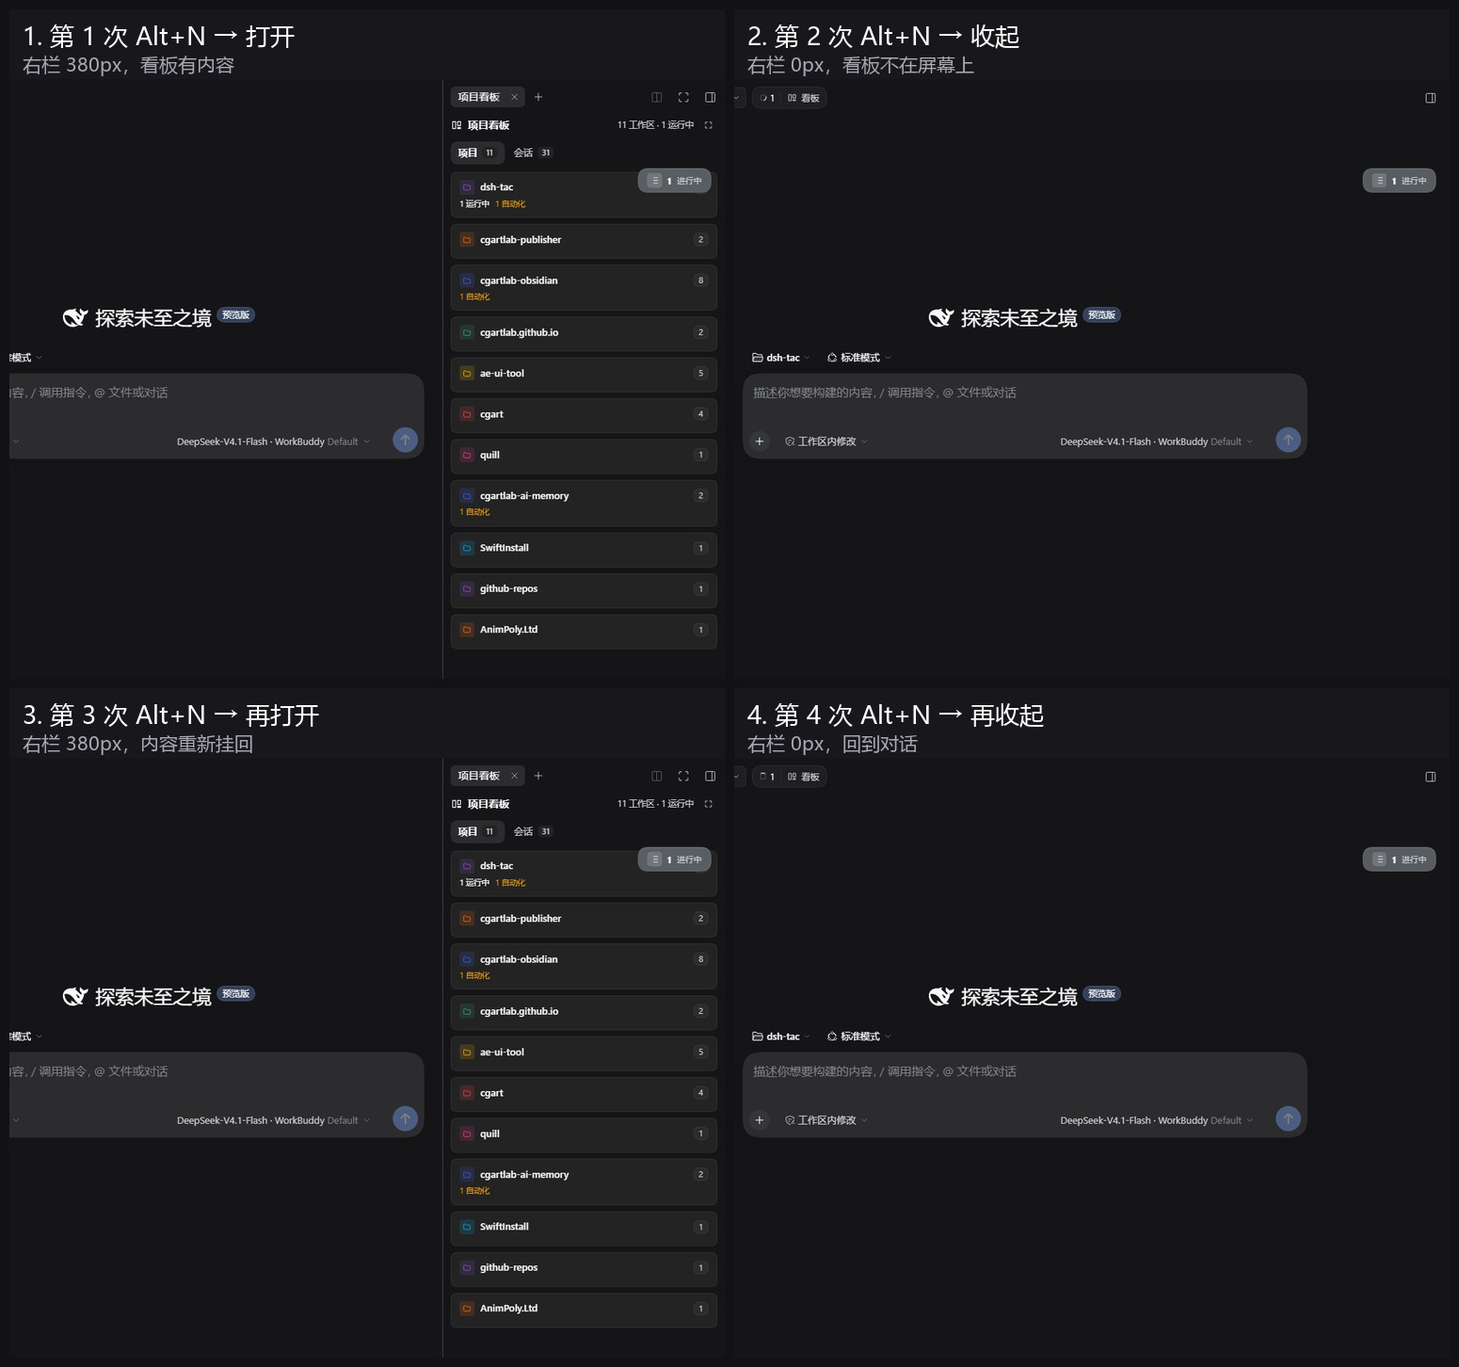
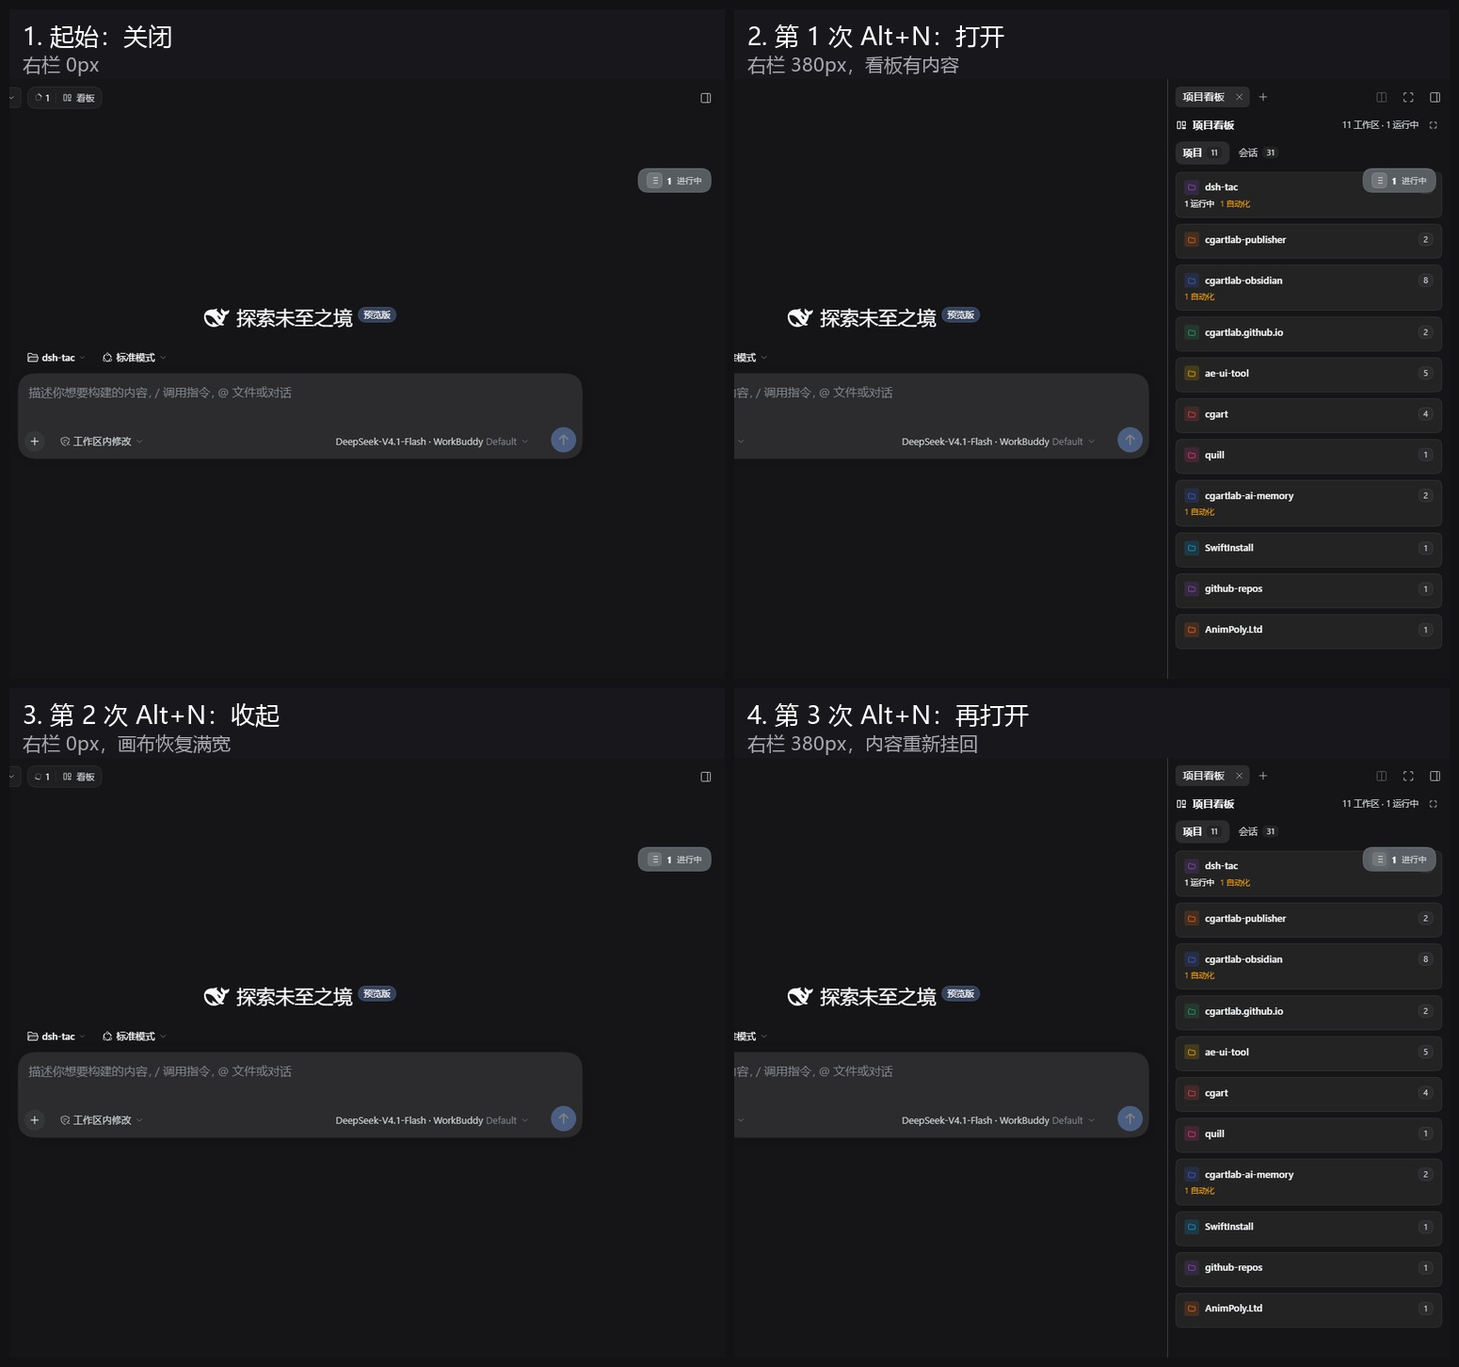
fix(board): treat a clamped column as closed by looking at the painted body
The window that stayed open was the host clamping the right column to width 0 while the tab
body stayed mounted, absolutely positioned at full width. Measuring the column said "closed"
and the close was skipped, so the canvas widened and the board stayed — reproduced in a
1256px window where after the second press the body still measured 379px at x=877.

Visibility now asks whether the board is actually painted inside the column
(`boardPanePainted`) and, when closing, also whether a copy is painted outside it
(`strayBoardBody`). A close runs whenever either is true, no matter what the column measures;
it uses `closeRightbar`, then the dock toggle, and finally hides a truly undeletable layer with
`visibility:hidden` (keeping its layout measurable so the next open can restore it and the
column geometry stays intact — `display:none` collapsed the column and broke the reopen).

Opening replaces a stray layer first (`closeTab` when available) so two boards can never stack.
`board:close-attempt` and `board:close-concealed` record the state on every close, and a
regression test reproduces the clamped-column-with-stray-body case.

Verified on the running app: four presses give 380px/222 chars → 0 → 380 → 0, and the recorded
frames show the pane gone and the canvas full width on every close.

diff --git a/src/apply.ts b/src/apply.ts
@@ -14,7 +14,7 @@ import type { UiStore } from './types';
 import { PLUGIN_SECTION_ID, openSettingsTarget, pluginSettingEntries, readHostSections } from './core/settings-catalog';
 import type { SettingEntry, SettingsCatalogSnapshot } from './core/settings-catalog';
 import { bindingsOverlap, comboBindingOf, comboDisplay, IS_MAC } from './core/combos';
-import { hostCentreColumnWidth, hostRightbarWidth, isRightPanelExpanded, isRightbarFullscreen, rightbarColumnElement, sidebarSignature } from './core/dom';
+import { boardPanePainted, hostCentreColumnWidth, hostRightbarWidth, isRightPanelExpanded, isRightbarFullscreen, rightbarColumnElement, sidebarSignature, strayBoardBody } from './core/dom';
 import { moveCaretToEnd } from './features/interject';
 import { installChatScrollListeners } from './features/chat-scroll';
 import { installChatHistoryAutoLoad } from './features/chat-history';
@@ -344,15 +344,28 @@ export function apply(ctx: HostContext): void {
      in one place; these aliases keep the call sites reading naturally. */
   const rightbarWidthNow = (): number => hostRightbarWidth();
   /**
-   * Whether the right pane is actually rendered — the only signal that matches what the user sees.
+   * Whether the board is on screen — the only signal that matches what the user sees.
    *
-   * The dock's own `data-sidebar-right-open` flag never comes back down when the frame hides the
-   * column: the panel stays mounted with the attribute still "true". Reading that flag therefore
-   * called a closed board "open", and the next Alt+N took the close branch again instead of
-   * reopening. Width is what the layout really renders, so measure the column instead.
+   * Two host facts fooled earlier versions: the dock keeps `data-sidebar-right-open="true"` on a
+   * hidden pane, and the tab body is absolutely positioned, so clamping the column to width 0
+   * leaves the body measured at full width and painted outside the (overflow-hidden) column.
+   * Measuring the column said "closed" while the board was still visible. Only a board painted
+   * *inside* a non-zero column counts as open.
    */
-  const BOARD_VISIBLE_MIN_WIDTH = 40;
-  const boardPaneShown = (): boolean => rightbarWidthNow() >= BOARD_VISIBLE_MIN_WIDTH;
+  const boardPaneShown = (): boolean => boardPanePainted();
+  /** Restore anything a fallback hid, so a later open is not fighting our own style. */
+  const clearConcealed = (): void => {
+    try {
+      document.querySelectorAll('[data-pbx-concealed="1"]').forEach((node) => {
+        const element = node as HTMLElement;
+        element.style.visibility = '';
+        element.style.pointerEvents = '';
+        delete element.dataset.pbxConcealed;
+      });
+    } catch (error) {
+      /* ignore */
+    }
+  };
   /** A close the host ignores would look like a dead key; leave a breadcrumb with the state. */
   const verifyBoardClosed = (): void => {
     later(() => {
@@ -408,6 +421,16 @@ export function apply(ctx: HostContext): void {
   const openDockBoard = (): void => {
     const sidebarRight = ctx.sidebarRight;
     if (!sidebarRight) return;
+    clearConcealed();
+    /* A clamped body stays painted where the host left it and cannot be reused, so replace it by
+       re-placing the tab; that is also what mounts the body after the host unmounted it. */
+    if (strayBoardBody()) {
+      try {
+        if (typeof sidebarRight.closeTab === 'function') sidebarRight.closeTab();
+      } catch (error) {
+        /* ignore */
+      }
+    }
     try {
       sidebarRight.openTab(BOARD_KIND);
     } catch (error) {
@@ -428,7 +451,7 @@ export function apply(ctx: HostContext): void {
   const verifyBoardOpened = (): void => {
     later(() => {
       try {
-        if (!boardPaneShown()) return;
+        if (!boardPaneShown() && !strayBoardBody()) return;
         const column = rightbarColumnElement();
         const body = column ? column.querySelector('.pbx-responsive, .pbx-root') : null;
         const text = body ? (body.textContent || '').trim() : '';
@@ -453,7 +476,11 @@ export function apply(ctx: HostContext): void {
    * attribute probe reads it as open. Collapse whichever is still set, then verify.
    */
   const closeDockBoard = (): void => {
-    if (!boardPaneShown()) return;
+    const strayAtEntry = Boolean(strayBoardBody());
+    logEvent('info', 'board', 'close-attempt', { shown: boardPaneShown(), stray: strayAtEntry, width: Math.round(rightbarWidthNow()) });
+    /* Close whenever anything is painted: a clamped column leaves a stray body on screen, and
+       checking only `boardPaneShown()` skipped exactly that case. */
+    if (!boardPaneShown() && !strayAtEntry) return;
     const collapseDock = (): void => {
       try {
         if (ctx.sidebarRight && typeof ctx.sidebarRight.toggleExpanded === 'function') ctx.sidebarRight.toggleExpanded();
@@ -461,19 +488,46 @@ export function apply(ctx: HostContext): void {
         /* ignore */
       }
     };
+    /** Last resort: the host left a board body painted where nothing can hide it. */
+    const concealStray = (): boolean => {
+      const stray = strayBoardBody();
+      if (!stray) return false;
+      const node = stray as HTMLElement;
+      try {
+        if (node.dataset.pbxConcealed === '1') return true;
+        node.dataset.pbxConcealed = '1';
+        const width = Math.round(node.getBoundingClientRect().width);
+        /* visibility:hidden keeps the layer's layout measurable (so a later open still finds it
+           and can restore it) while removing it from the screen; display:none collapsed the
+           column geometry and confused the next open. */
+        node.style.visibility = 'hidden';
+        node.style.pointerEvents = 'none';
+        logEvent('warn', 'board', 'close-concealed', { width });
+        return true;
+      } catch (error) {
+        return false;
+      }
+    };
     if (!hideRightPane()) {
       collapseDock();
-      verifyBoardClosed();
-      return;
     }
-    /* The frame API wins when it works. Only if the column is still painted a moment later does
-       the dock's own flag need a second nudge — that is the case where an attribute-based close
-       looked successful while the panel stayed on screen. */
+    /* Whatever was painted before must be gone afterwards. A clamped column leaves the absolutely
+       positioned tab body painted outside it, so check for a visible body, not for a width. */
     later(() => {
-      if (!boardPaneShown()) return;
+      if (!boardPaneShown() && !strayBoardBody()) {
+        clearConcealed();
+        return;
+      }
       collapseDock();
-      verifyBoardClosed();
-    }, 200);
+      later(() => {
+        if (!boardPaneShown() && !strayBoardBody()) {
+          clearConcealed();
+          return;
+        }
+        concealStray();
+        verifyBoardClosed();
+      }, 200);
+    }, 150);
   };
   /* Alt+N asks for "the narrow board", so narrow is a FIXED width, not the width the user
      last dragged. `boardStateNow()` classifies a pane by measured width (below `BOARD_NARROW_MAX`

diff --git a/client.js b/client.js
@@ -1,4 +1,4 @@
-/*! dsh-tac 0.6.3 — generated from src/ by scripts/build.mjs; do not edit */
+/*! dsh-tac 0.6.4 — generated from src/ by scripts/build.mjs; do not edit */
 "use strict";
 (() => {
   // src/constants.ts
@@ -540,6 +540,52 @@
       return panel ? panel.getBoundingClientRect().width : 0;
     } catch (error) {
       return 0;
+    }
+  }
+  function boardPanePainted() {
+    try {
+      const column = document.querySelector("[data-rightbar-col]") || document.querySelector('[class*="_rightbarCol"]');
+      if (!column) {
+        const panel = rightPanelElement();
+        return panel ? panel.getBoundingClientRect().width >= 40 : false;
+      }
+      const columnRect = column.getBoundingClientRect();
+      if (columnRect.width < 40) return false;
+      const bodies = column.querySelectorAll(".pbx-responsive, .pbx-root, .pbx-boardBody");
+      if (bodies.length === 0) return false;
+      for (const body of bodies) {
+        const rect = body.getBoundingClientRect();
+        if (rect.width < 40 || rect.height < 40) continue;
+        const insideLeft = rect.left >= columnRect.left - 2;
+        const insideRight = rect.right <= columnRect.right + 2;
+        if (insideLeft && insideRight) return true;
+      }
+      return false;
+    } catch (error) {
+      return false;
+    }
+  }
+  function strayBoardBody() {
+    try {
+      const bodies = Array.from(document.querySelectorAll(".pbx-responsive, .pbx-root, .pbx-boardBody"));
+      let widest = null;
+      let widestWidth = 0;
+      for (const body of bodies) {
+        const rect = body.getBoundingClientRect();
+        if (rect.width < 40 || rect.height < 40) continue;
+        const host = body.closest("[data-rightbar-col]");
+        if (host) {
+          const hostRect = host.getBoundingClientRect();
+          if (hostRect.width >= 40 && rect.left >= hostRect.left - 2 && rect.right <= hostRect.right + 2) continue;
+        }
+        if (rect.width > widestWidth) {
+          widest = body;
+          widestWidth = rect.width;
+        }
+      }
+      return widest;
+    } catch (error) {
+      return null;
     }
   }
   function isRightbarFullscreen() {
@@ -7607,8 +7653,18 @@
       }
     };
     const rightbarWidthNow = () => hostRightbarWidth();
-    const BOARD_VISIBLE_MIN_WIDTH = 40;
-    const boardPaneShown = () => rightbarWidthNow() >= BOARD_VISIBLE_MIN_WIDTH;
+    const boardPaneShown = () => boardPanePainted();
+    const clearConcealed = () => {
+      try {
+        document.querySelectorAll('[data-pbx-concealed="1"]').forEach((node) => {
+          const element = node;
+          element.style.visibility = "";
+          element.style.pointerEvents = "";
+          delete element.dataset.pbxConcealed;
+        });
+      } catch (error) {
+      }
+    };
     const verifyBoardClosed = () => {
       later(() => {
         if (!boardPaneShown()) return;
@@ -7644,6 +7700,13 @@
     const openDockBoard = () => {
       const sidebarRight = ctx.sidebarRight;
       if (!sidebarRight) return;
+      clearConcealed();
+      if (strayBoardBody()) {
+        try {
+          if (typeof sidebarRight.closeTab === "function") sidebarRight.closeTab();
+        } catch (error) {
+        }
+      }
       try {
         sidebarRight.openTab(BOARD_KIND);
       } catch (error) {
@@ -7661,7 +7724,7 @@
     const verifyBoardOpened = () => {
       later(() => {
         try {
-          if (!boardPaneShown()) return;
+          if (!boardPaneShown() && !strayBoardBody()) return;
           const column = rightbarColumnElement();
           const body = column ? column.querySelector(".pbx-responsive, .pbx-root") : null;
           const text = body ? (body.textContent || "").trim() : "";
@@ -7677,23 +7740,49 @@
       }, 400);
     };
     const closeDockBoard = () => {
-      if (!boardPaneShown()) return;
+      const strayAtEntry = Boolean(strayBoardBody());
+      logEvent("info", "board", "close-attempt", { shown: boardPaneShown(), stray: strayAtEntry, width: Math.round(rightbarWidthNow()) });
+      if (!boardPaneShown() && !strayAtEntry) return;
       const collapseDock = () => {
         try {
           if (ctx.sidebarRight && typeof ctx.sidebarRight.toggleExpanded === "function") ctx.sidebarRight.toggleExpanded();
         } catch (error) {
         }
       };
+      const concealStray = () => {
+        const stray = strayBoardBody();
+        if (!stray) return false;
+        const node = stray;
+        try {
+          if (node.dataset.pbxConcealed === "1") return true;
+          node.dataset.pbxConcealed = "1";
+          const width = Math.round(node.getBoundingClientRect().width);
+          node.style.visibility = "hidden";
+          node.style.pointerEvents = "none";
+          logEvent("warn", "board", "close-concealed", { width });
+          return true;
+        } catch (error) {
+          return false;
+        }
+      };
       if (!hideRightPane()) {
         collapseDock();
-        verifyBoardClosed();
-        return;
       }
       later(() => {
-        if (!boardPaneShown()) return;
+        if (!boardPaneShown() && !strayBoardBody()) {
+          clearConcealed();
+          return;
+        }
         collapseDock();
-        verifyBoardClosed();
-      }, 200);
+        later(() => {
+          if (!boardPaneShown() && !strayBoardBody()) {
+            clearConcealed();
+            return;
+          }
+          concealStray();
+          verifyBoardClosed();
+        }, 200);
+      }, 150);
     };
     const BOARD_NARROW_WIDTH = 380;
     const BOARD_NARROW_MAX = 460;

diff --git a/src/core/dom.ts b/src/core/dom.ts
@@ -59,6 +59,69 @@ export function hostRightbarWidth(): number {
   }
 }
 
+/**
+ * Whether the board is painted somewhere the user can see it.
+ *
+ * The dock's tab body is absolutely positioned by the host: hiding the column clamps the column to
+ * width 0 but leaves the body measured at its full width, painted *outside* the (overflow-hidden)
+ * column area. Measuring the column therefore reported "closed" while the board was still on
+ * screen — the canvas widened and the board stayed. Only "painted inside a non-zero column" counts.
+ */
+export function boardPanePainted(): boolean {
+  try {
+    const column = document.querySelector('[data-rightbar-col]') || document.querySelector('[class*="_rightbarCol"]');
+    if (!column) {
+      const panel = rightPanelElement();
+      return panel ? panel.getBoundingClientRect().width >= 40 : false;
+    }
+    const columnRect = column.getBoundingClientRect();
+    if (columnRect.width < 40) return false;
+    const bodies = column.querySelectorAll('.pbx-responsive, .pbx-root, .pbx-boardBody');
+    if (bodies.length === 0) return false;
+    for (const body of bodies) {
+      const rect = body.getBoundingClientRect();
+      if (rect.width < 40 || rect.height < 40) continue;
+      /* An absolutely positioned body can outlive the clamp; require it to sit inside the column. */
+      const insideLeft = rect.left >= columnRect.left - 2;
+      const insideRight = rect.right <= columnRect.right + 2;
+      if (insideLeft && insideRight) return true;
+    }
+    return false;
+  } catch (error) {
+    return false;
+  }
+}
+
+/**
+ * Find a board body painted outside any column — a leftover after the host clamped the pane.
+ *
+ * Returns the widest such copy, or null. Used to verify a close and to decide whether a fresh
+ * `openTab` is needed on the next open (a clamped body is not reusable: it stays where it is).
+ */
+export function strayBoardBody(): Element | null {
+  try {
+    const bodies = Array.from(document.querySelectorAll('.pbx-responsive, .pbx-root, .pbx-boardBody'));
+    let widest: Element | null = null;
+    let widestWidth = 0;
+    for (const body of bodies) {
+      const rect = body.getBoundingClientRect();
+      if (rect.width < 40 || rect.height < 40) continue;
+      const host = body.closest('[data-rightbar-col]');
+      if (host) {
+        const hostRect = host.getBoundingClientRect();
+        if (hostRect.width >= 40 && rect.left >= hostRect.left - 2 && rect.right <= hostRect.right + 2) continue;
+      }
+      if (rect.width > widestWidth) {
+        widest = body;
+        widestWidth = rect.width;
+      }
+    }
+    return widest;
+  } catch (error) {
+    return null;
+  }
+}
+
 /** Whether the right pane is currently showing fullscreen. */
 export function isRightbarFullscreen(): boolean {
   try {

diff --git a/index.js b/index.js
@@ -1,4 +1,4 @@
-/*! dsh-tac 0.6.3 — generated from src/ by scripts/build.mjs; do not edit */
+/*! dsh-tac 0.6.4 — generated from src/ by scripts/build.mjs; do not edit */
 
 // src/host-entry.ts
 function apply() {

diff --git a/LESSONS.md b/LESSONS.md
@@ -158,6 +158,9 @@
 - 失误：0.6.1 用"面板属性 + 宽度回退"两层推断看板是否打开；rc.3 关闭后仍把面板挂在 DOM 里（属性保持 true、面板宽度仍是全宽），两层推断都把"已关闭"读成"已打开"，Alt+N 于是永远走关闭分支——用户看到的是"怎么按都收不起来"→ 规则：**可见性判据只能有一个，而且必须是渲染结果**（frame 列宽度），属性/服务标志一律只用于*执行*动作，不能用于*判断*状态；任何"是否显示"的探测都要能被用户肉眼复核 → 证据：`src/core/dom.ts`（列宽权威）、`src/apply.ts`（`boardPaneShown`）、`test/shortcuts.test.cjs`（`connectBoardPane` 复刻 rc.3 的陈旧标志 + 开→关→再开回归）
 ## 验证方法
 
+- 失误：0.6.2/0.6.3 用"列宽 0"当"已关闭"，用户实际看到的是宿主把列夹到 0、标签内容仍以全宽挂在绝对定位层上继续显示（"画布变宽、看板还在，像开了两层"）→ 规则：**几何测量必须对准真正绘制的内容**——判断面板是否可见要看"内容是否画在面板范围内且尺寸非零"，并同时检查"有没有画在外面的残留副本"；只测容器尺寸会把被夹住的绝对定位层判成已隐藏 → 证据：`src/core/dom.ts` 的 `boardPanePainted` / `strayBoardBody`，`test/shortcuts.test.cjs` 的 "a body left painted after the column clamps" 回归
+## 验证方法
+
 - 失误：连续三轮都用“自己开的无头浏览器 + 合成事件”验收，程序侧每次全绿，用户按 Alt+N 依旧完全没反应；真相是用户操作的**桌面窗口**里跑的是旧 bundle（其日志停在修复前的 `shown/active` 字段），而我只验证了另一条渲染链 → 规则：验收必须命中用户真正使用的运行环境；本机桌面窗口的日志在 `%APPDATA%\@deepseek-ai\dsh-desktop\Local Storage\leveldb`，改完先读它——看到 `plugin ready` 与 `board:toggle` 才会出现新字段（`shown/width`），据此判断窗口是否已加载新代码，再谈功能是否正常 → 证据：2026-11-16 的 leveldb 导出（旧 bundle 只有 `{"mode":"narrow"}`）
 - 失误：只截“打开”的图就宣称双向可用，用户质疑“你截不出关闭的状态” → 规则：涉及开关、折叠、显隐的演示必须**成对呈现**（开/关各一帧，最好一张含四格时序的对照图），并在同一段录制里连续按出全部状态，不拿单帧代表全过程 → 证据：`docs/demo/alt-n-toggle-sheet.jpg`
 ## 测试与时间

diff --git a/CHANGELOG.md b/CHANGELOG.md
@@ -9,6 +9,9 @@
 ## [未发布]
 
 - **README 三张截图更新为 0.6.0 实拍。** 看板（项目视图 7 列全宽）、悬浮会话列表、命令面板（项目 chip 行里能看到「只看已归档」）都是在运行 0.6.0 的应用里即时截的，`screenshots.meta.json` 的 `showsVersion` / `verifiedThrough` 同步到 0.6.0 与当前提交，之前的欠账与源码漂移提醒均已清除。
+## [0.6.4] - 2026-11-16
+
+- **修复窄版看板"关闭后仍留在屏幕上"。** 宿主隐藏右栏时只把列宽夹到 0，标签页内容**仍然挂载并保持全宽**（绝对定位），于是"列宽为 0"并不等于"看不见"。判定改为"面板里确实有一块画在列范围内的看板内容"，并且关闭入口改为：只要还有可见的看板内容（包括这种夹不掉的残留）就执行关闭；先走 frame 的 `closeRightbar`，列宽仍不归零时再收缩 dock，极端情况下（宿主既不解挂也不收窄）把残留层隐藏并记 `board:close-concealed`。打开时若发现残留副本，先 `closeTab` 再重新放置标签，避免叠出"两层看板"。每次关闭都记 `board:close-attempt`（shown/stray/width），窄窗口下"画布变宽、看板不消失"的情形已有正式回归测试。
 ## [0.6.3] - 2026-11-16
 
 - **修复 Alt+N 打开后看板空白。** 0.6.2 把打开简化为"先让 frame 列显示出来"，但宿主在列隐藏时会卸载标签页内容，`sidebarRight.active()` 却仍报告看板处于激活状态，于是被跳过的 `openTab` 成了唯一能把内容挂回来的动作——重开时面板出现、内容为空。现在每次打开都先重新放置一次看板标签（与宿主自己的侧栏按钮同一路径），再按需显示列；400ms 后还会校验面板里确实有看板内容，否则记一条 `board:open-ineffective` 警告。
